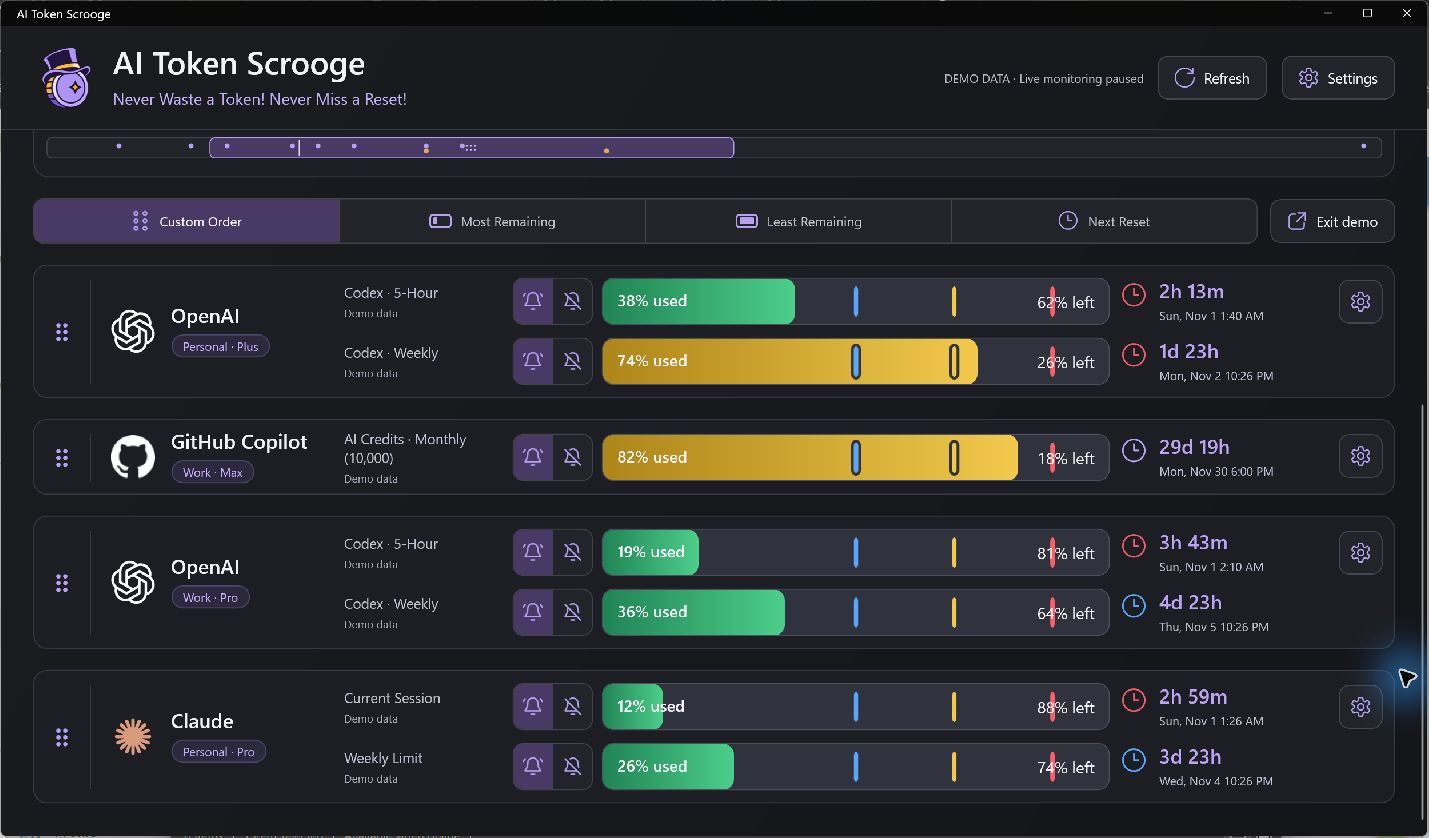
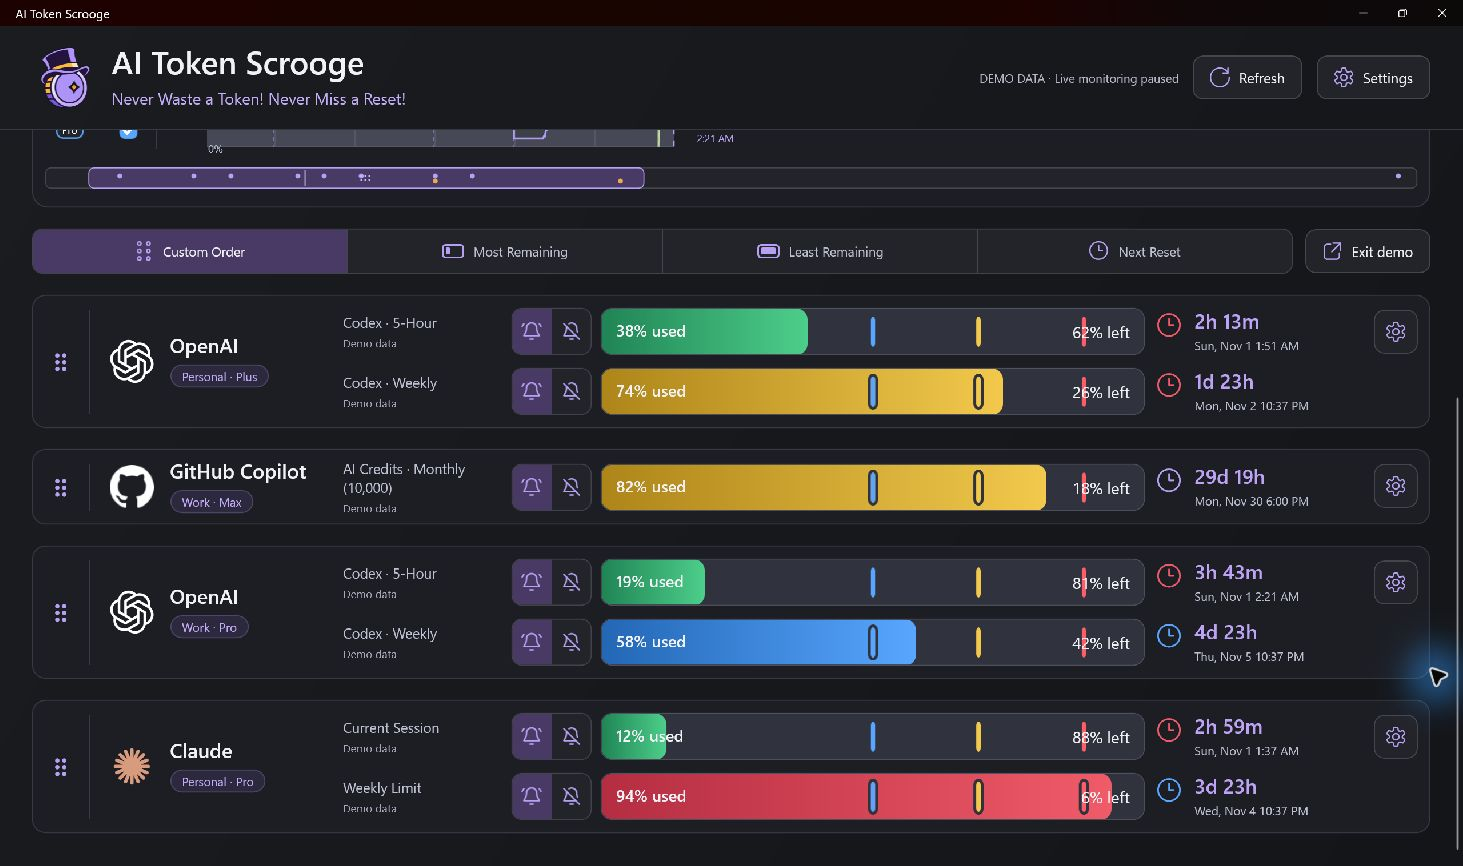
Use realistic demo usage bursts and show all alert colors

diff --git a/src/AIResetRadar.App/Presentation/HistoryDemo.cs b/src/AIResetRadar.App/Presentation/HistoryDemo.cs
@@ -26,6 +26,23 @@ public static class HistoryDemo
             var restoredRemaining = Math.Min(99, Math.Max(endRemaining, index % 2 == 0 ? 91 : 96));
             var records = new List<QuotaSnapshot>();
             var steps = (int)Math.Ceiling((now - start).TotalMinutes / 5);
+            // Synthetic work sessions: idle nights, uneven bursts, and small reported increments.
+            // Shape is informed by aggregate local observations, never copied account readings.
+            var activity = new double[steps + 1];
+            for (var i = 1; i <= steps; i++)
+            {
+                var local = TimeZoneInfo.ConvertTime(start.AddMinutes(i * 5), zone);
+                var slot = local.Hour * 12 + local.Minute / 5;
+                var seed = unchecked((uint)(local.DayOfYear * 7919 + slot * 104729 + index * 15485863));
+                seed ^= seed >> 16; seed *= 0x7feb352d; seed ^= seed >> 15;
+                var session = (slot + index * 17 + local.DayOfYear * 7) % 91;
+                var active = local.Hour >= 8 + index % 3 && local.Hour < 23 - index % 2 && session < 33;
+                var weight = active && seed % 7 < 3 ? 1 + (seed / 7 % 9) / 3d : 0;
+                activity[i] = activity[i - 1] + weight;
+            }
+            double At(DateTimeOffset time) => activity[Math.Clamp((int)Math.Ceiling((time - start).TotalMinutes / 5), 0, steps)];
+            double Progress(DateTimeOffset time, DateTimeOffset from, DateTimeOffset to) =>
+                At(to) <= At(from) ? Fraction(time, from, to) : (At(time) - At(from)) / (At(to) - At(from));
             for (var step = 0; step <= steps; step++)
             {
                 var at = step == steps ? now : start.AddMinutes(step * 5);
@@ -35,11 +52,11 @@ public static class HistoryDemo
                 if (refreshAt is { } refresh)
                 {
                     remaining = at < refresh
-                        ? Lerp(startRemaining, 24 + index * 3, Fraction(at, start, refresh))
-                        : Lerp(restoredRemaining, endRemaining, Fraction(at, refresh, now));
+                        ? Lerp(startRemaining, 24 + index * 3, Progress(at, start, refresh))
+                        : Lerp(restoredRemaining, endRemaining, Progress(at, refresh, now));
                 }
-                else remaining = Lerp(startRemaining, endRemaining, Fraction(at, start, now));
-                remaining = decimal.Round(Math.Clamp(remaining, 0, 100), 2);
+                else remaining = Lerp(startRemaining, endRemaining, Progress(at, start, now));
+                remaining = at == now ? endRemaining : decimal.Round(Math.Clamp(remaining, 0, 100), account.Provider == "GitHub Copilot" ? 1 : 0);
                 var used = window.Unit == UsageUnit.Percent ? 100 - remaining : window.Limit * (100 - remaining) / 100;
                 var period = window with { Used = used, ResetsAt = refreshAt is { } r && at < r ? r : window.ResetsAt };
                 var credits = expiryAt is { } expiry && at <= expiry

diff --git a/src/AIResetRadar.App/Presentation/DashboardState.cs b/src/AIResetRadar.App/Presentation/DashboardState.cs
@@ -95,10 +95,10 @@ public sealed class DashboardState
             new(2, [new("demo-r1", "available", now.AddDays(4)), new("demo-r2", "available", now.AddDays(9))]), SourceHealth.Demo, PlanType: historyDemo ? "plus" : null);
         Snapshots[work.Id] = new(work.Id, work.Subject, work.Scope, now,
             [new("codex/primary", "Codex · 5-hour", UsageUnit.Percent, 19, 100, now.AddHours(3).AddMinutes(44), 300),
-             new("codex/secondary", "Codex · Weekly", UsageUnit.Percent, 36, 100, now.AddDays(5), 10080)], null, SourceHealth.Demo, PlanType: "pro");
+             new("codex/secondary", "Codex · Weekly", UsageUnit.Percent, 58, 100, now.AddDays(5), 10080)], null, SourceHealth.Demo, PlanType: "pro");
         Snapshots[claude.Id] = new(claude.Id, claude.Subject, claude.Scope, now,
             [new("session", "Current Session", UsageUnit.Percent, 12, 100, now.AddHours(3), 300),
-             new("weekly", "Weekly Limit", UsageUnit.Percent, 26, 100, now.AddDays(4), 10080)], null, SourceHealth.Demo, PlanType: "pro");
+             new("weekly", "Weekly Limit", UsageUnit.Percent, 94, 100, now.AddDays(4), 10080)], null, SourceHealth.Demo, PlanType: "pro");
         Snapshots[github.Id] = new(github.Id, github.Subject, github.Scope, now,
             [new("copilot/monthly", "AI credits · Monthly (10,000)", UsageUnit.Credits, 8200, 10000,
                 new DateTimeOffset(now.UtcDateTime.Year, now.UtcDateTime.Month, 1, 0, 0, 0, TimeSpan.Zero).AddMonths(1))], null, SourceHealth.Demo, PlanType: "individual_max");

diff --git a/tests/AIResetRadar.Infrastructure.Tests/HistoryDemoShapeTests.cs b/tests/AIResetRadar.Infrastructure.Tests/HistoryDemoShapeTests.cs
@@ -1,0 +1,26 @@
+using AIResetRadar.App.Presentation;
+using AIResetRadar.Core;
+using Xunit;
+namespace AIResetRadar.Infrastructure.Tests;
+public class HistoryDemoShapeTests
+{
+    [Fact]
+    public void DemoHasAllFourCapacityStatesAndUnevenHistory()
+    {
+        var now = DateTimeOffset.Parse("2026-10-31T18:00:00Z");
+        var state = new DashboardState();
+        state.LoadDemo(now, historyDemo: true);
+        var remaining = state.Snapshots.Values.SelectMany(s => s.Windows).Select(w => w.RemainingPercent!.Value).ToArray();
+        Assert.Contains(remaining, x => x > 50);
+        Assert.Contains(remaining, x => x <= 50 && x > 30);
+        Assert.Contains(remaining, x => x <= 30 && x > 10);
+        Assert.Contains(remaining, x => x <= 10);
+        var series = HistoryDemo.Build(state.Accounts.ToArray(), state.Snapshots, now, TimeZoneInfo.Utc);
+        foreach (var line in series)
+        {
+            var pairs = line.Points.Zip(line.Points.Skip(1)).ToArray();
+            Assert.True(pairs.Count(p => p.First.RemainingPercent == p.Second.RemainingPercent) > pairs.Length / 2);
+            Assert.Contains(pairs, p => p.First.RemainingPercent > p.Second.RemainingPercent);
+        }
+    }
+}

diff --git a/docs/images/README.md b/docs/images/README.md
@@ -7,3 +7,5 @@ These images were captured from the native Windows development preview in `--dem
 - `settings.png`: Global notification, time-zone, and sound settings.
 
 The screenshots represent the working development preview and may be ahead of a published package. They are actual app captures, not design mockups.
+
+The synthetic history uses idle periods and uneven bursts inspired by aggregate usage patterns. No actual account readings were copied. The account screenshot includes green normal, blue info, yellow warning, and red critical usage bars.
